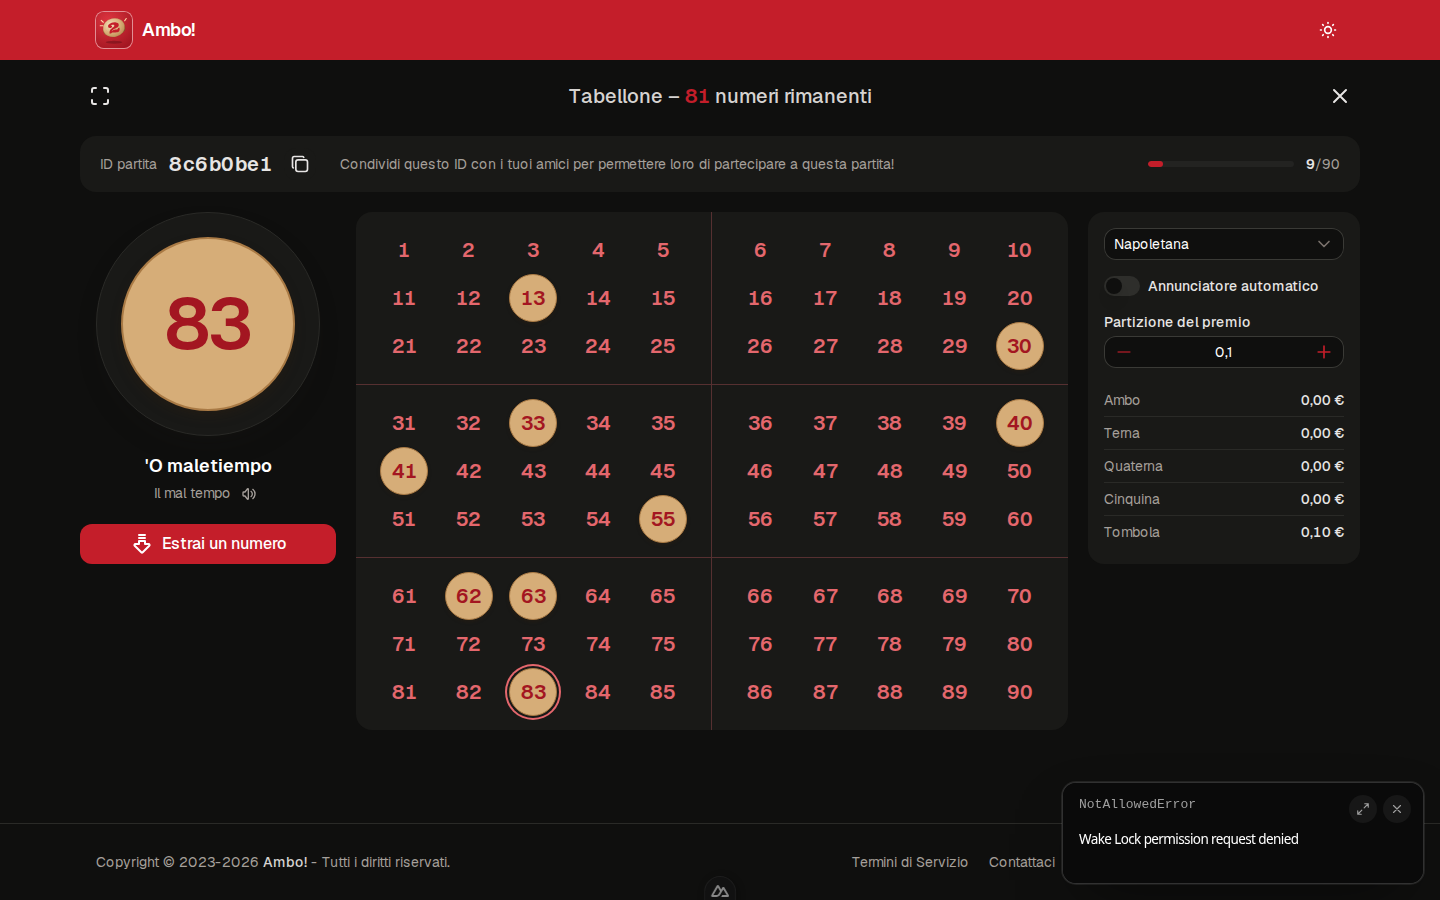
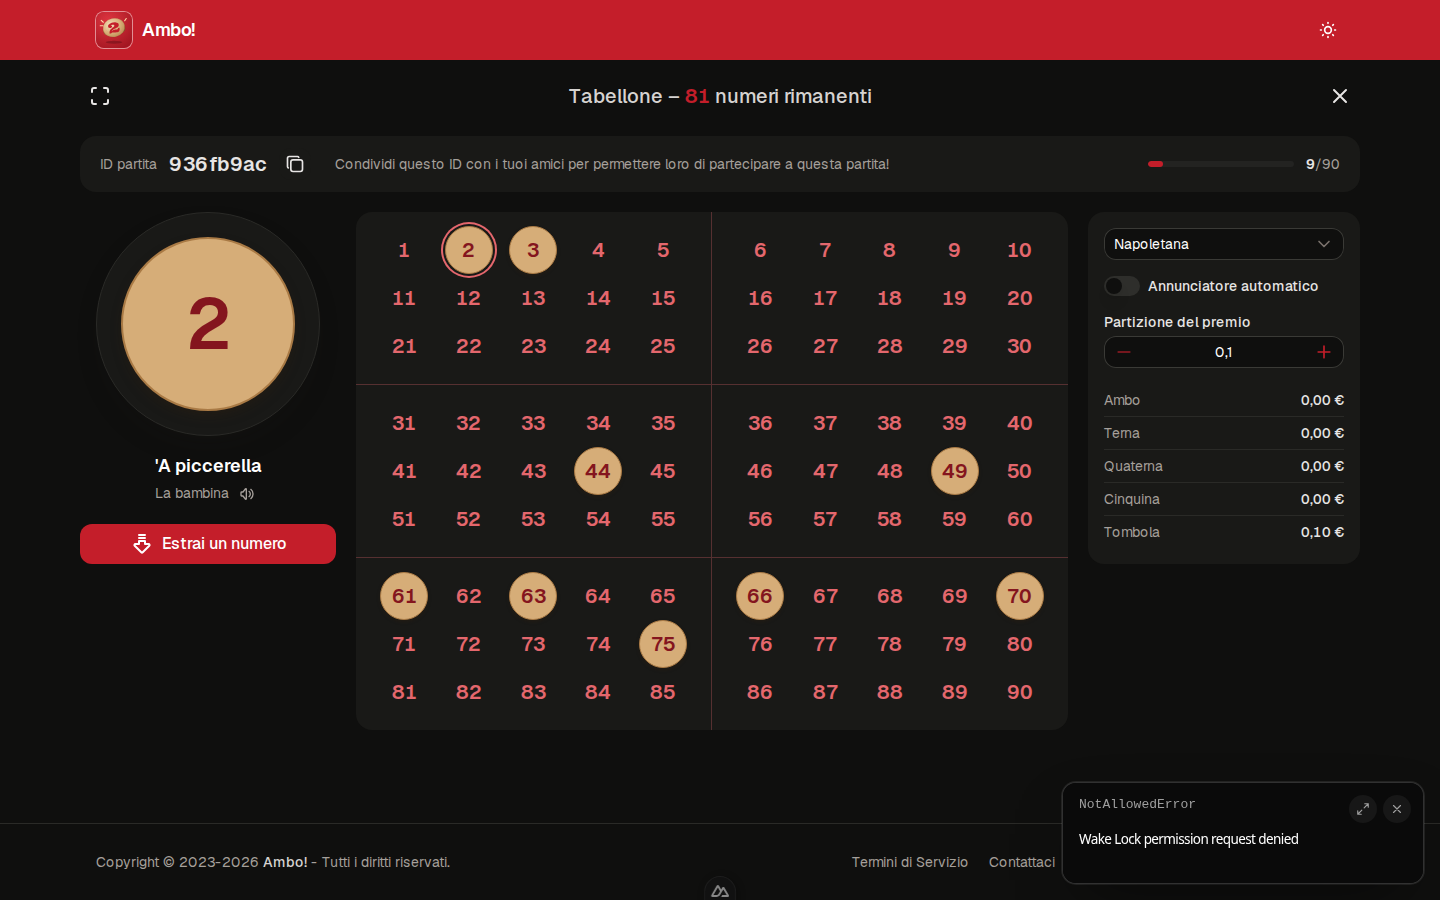
fix: token numeral contrast, draw history, title wrapping

diff --git a/app/pages/cards.vue b/app/pages/cards.vue
@@ -113,7 +113,7 @@ function checkNumber(num: number, check = true) {
       </p>
       <div v-auto-animate class="flex flex-row-reverse items-center justify-center gap-3">
         <span v-for="(num, i) in lastExtractions" :key="num" class="numero"
-              :class="i === lastExtractions.length - 1 ? 'size-16 text-2xl' : 'size-11 text-base opacity-70'"
+              :class="i === lastExtractions.length - 1 ? 'size-16 text-2xl' : 'size-11 text-base'"
               :data-state="i === lastExtractions.length - 1 ? 'latest' : 'on'">
           {{ num }}
         </span>
@@ -136,7 +136,7 @@ function checkNumber(num: number, check = true) {
       <div v-for="(card, ci) in cards" :key="ci" class="panel w-full max-w-xl overflow-hidden border-[var(--print-line)]">
         <div class="flex items-center justify-between bg-primary px-4 py-2 text-xs text-white">
           <span class="font-medium tabular-nums">#{{ ci + 1 }}</span>
-          <span class="tabular-nums text-white/80">{{ signedNumbers[ci]?.length ?? 0 }}/15</span>
+          <span class="tabular-nums text-white">{{ signedNumbers[ci]?.length ?? 0 }}/15</span>
         </div>
         <div class="grid select-none grid-cols-9">
           <button v-for="(number, ni) in card" :key="`${ci}-${ni}`" type="button"

diff --git a/app/components/DrawToken.vue b/app/components/DrawToken.vue
@@ -8,7 +8,7 @@ defineProps<{
   <div class="relative grid aspect-square w-full max-w-56 place-content-center rounded-full border border-default bg-elevated shadow-[0_12px_32px_-16px_rgb(28_25_23/0.35)]">
     <Transition name="token" mode="out-in">
       <div v-if="number" :key="number"
-           class="legno absolute inset-[11%] grid place-content-center rounded-full text-tombola-700">
+           class="legno absolute inset-[11%] grid place-content-center rounded-full text-tombola-800">
         <span class="text-6xl font-semibold tabular-nums tracking-tight sm:text-7xl">{{ number }}</span>
       </div>
       <span v-else class="text-2xl text-dimmed">–</span>

diff --git a/app/assets/main.css b/app/assets/main.css
@@ -152,7 +152,7 @@
 
 .numero[data-state="on"],
 .numero[data-state="latest"] {
-  color: var(--color-tombola-700);
+  color: var(--color-tombola-800);
 }
 
 .numero[data-state="latest"]::before {
